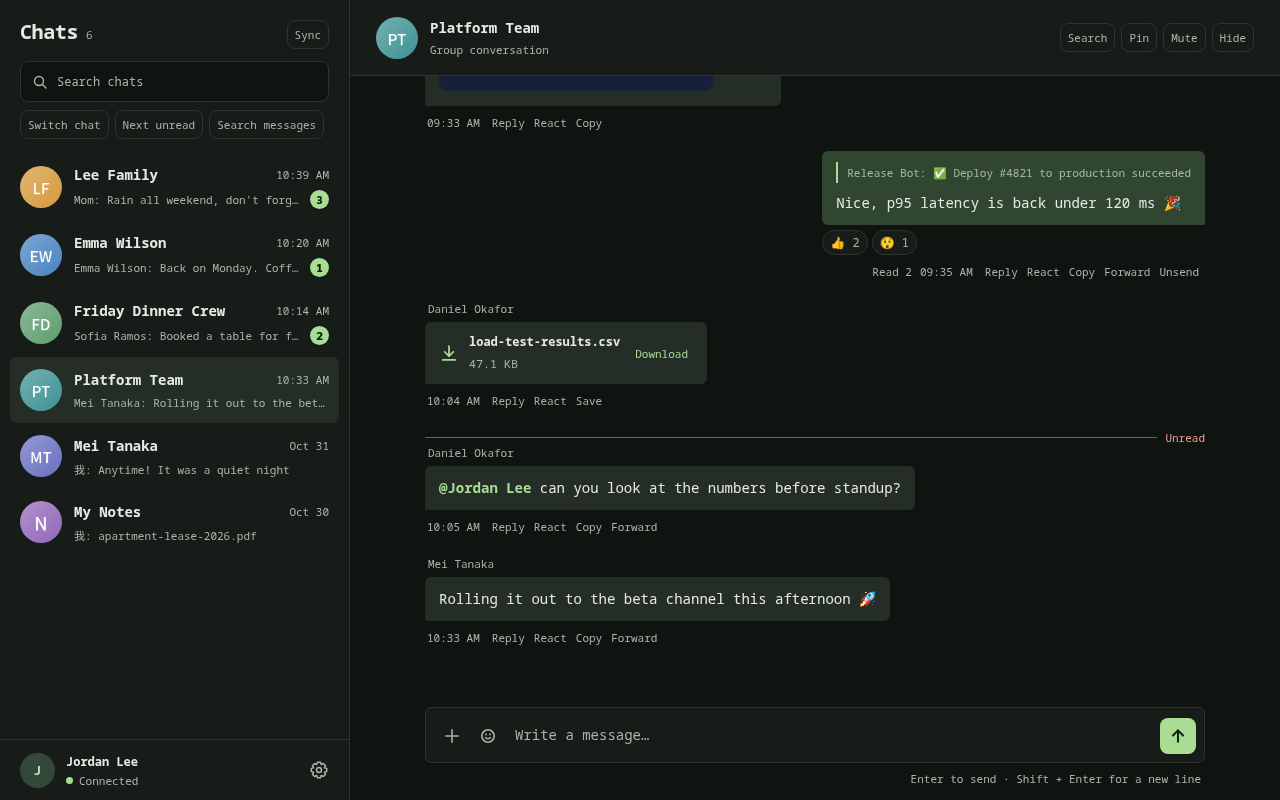
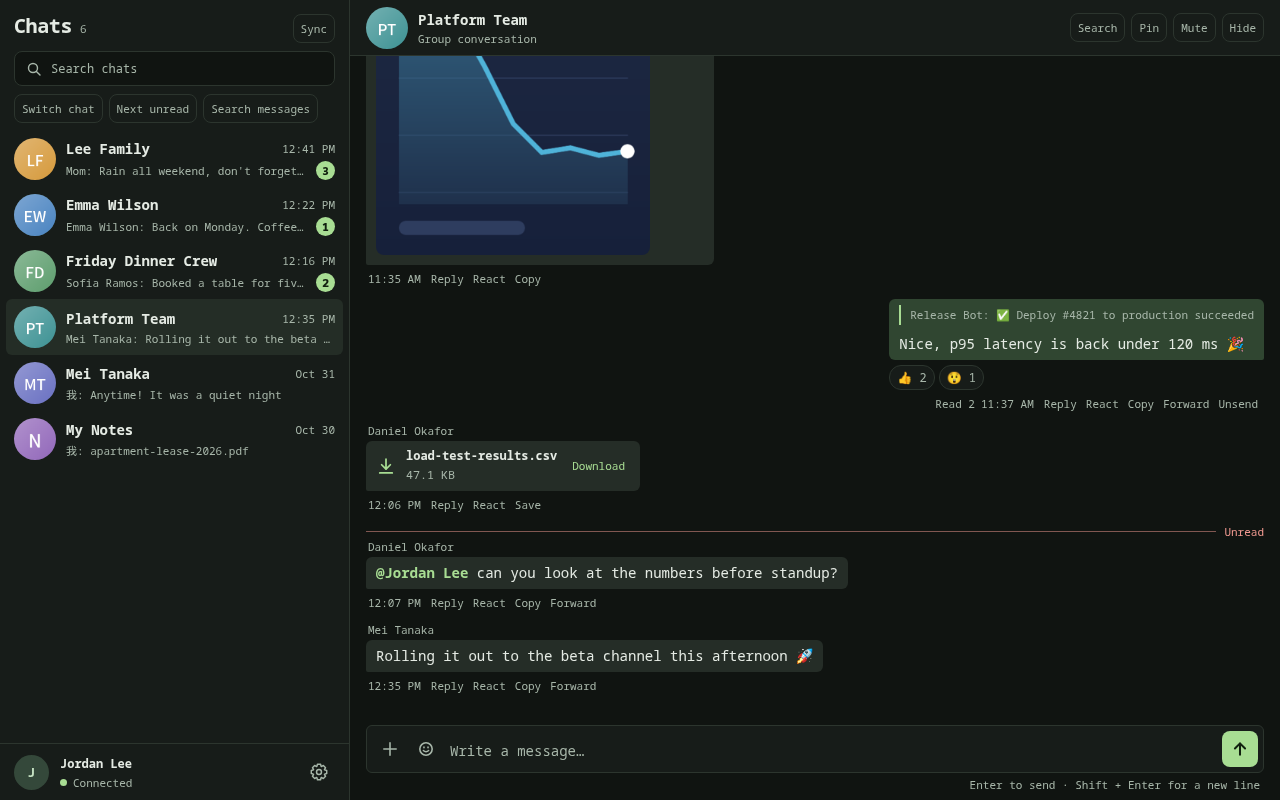
fix(web): tighten the chat layout and composer spacing (#13)
* fix(web): tighten the chat layout and composer spacing

* fix(web): align composer pickers with the conversation gutter

* fix(web): discard old history anchors when a message jump starts

* fix(web): lay out message jump targets before scrolling in WebKit

diff --git a/daemon/web/public/app.css b/daemon/web/public/app.css
@@ -318,13 +318,13 @@ a:focus-visible {
   background: var(--panel);
 }
 .sidebar-top {
-  padding: 18px 20px 14px;
+  padding: 12px 14px 8px;
 }
 .section-heading {
   display: flex;
   align-items: baseline;
   gap: 8px;
-  margin-bottom: 12px;
+  margin-bottom: 8px;
 }
 .section-heading h1 {
   font-size: calc(20rem / 14);
@@ -359,7 +359,7 @@ a:focus-visible {
   border: 0;
   outline: 0;
   color: var(--text);
-  padding: 11px 0;
+  padding: 8px 0;
   font-size: calc(12rem / 14);
 }
 input::placeholder,
@@ -377,7 +377,7 @@ textarea::placeholder {
   min-height: 0;
   overflow: auto;
   contain: layout paint;
-  padding: 0 10px;
+  padding: 0 6px;
 }
 .chat-row {
   width: 100%;
@@ -385,9 +385,9 @@ textarea::placeholder {
   content-visibility: auto;
   contain-intrinsic-size: auto 44px;
   align-items: center;
-  gap: 12px;
+  gap: 10px;
   text-align: left;
-  padding: 12px 10px;
+  padding: 7px 8px;
   border: 0;
   border-radius: 6px;
   background: transparent;
@@ -427,7 +427,7 @@ textarea::placeholder {
   justify-content: space-between;
 }
 .row-top {
-  margin-bottom: 6px;
+  margin-bottom: 3px;
 }
 .row-name {
   font-weight: 700;
@@ -467,7 +467,7 @@ textarea::placeholder {
 }
 .sidebar-bottom {
   border-top: 1px solid var(--line);
-  padding: 8px 8px 8px 20px;
+  padding: 6px 8px 6px 14px;
   display: flex;
   justify-content: space-between;
   align-items: center;
@@ -505,6 +505,7 @@ textarea::placeholder {
   font-size: calc(11rem / 14);
 }
 .conversation {
+  --conversation-gutter: max(16px, calc((100% - 960px) / 2));
   flex: 1;
   min-width: 0;
   min-height: 0;
@@ -541,11 +542,11 @@ textarea::placeholder {
   flex-direction: column;
 }
 .chat-header {
-  min-height: 76px;
+  min-height: 56px;
   display: flex;
   align-items: center;
-  gap: 12px;
-  padding: 0 26px;
+  gap: 10px;
+  padding: 6px 16px;
   background: var(--panel);
   border-bottom: 1px solid var(--line);
   flex: none;
@@ -564,7 +565,7 @@ textarea::placeholder {
 .chat-heading span {
   display: block;
   font-size: calc(11rem / 14);
-  margin-top: 5px;
+  margin-top: 2px;
 }
 .back {
   display: none;
@@ -574,40 +575,42 @@ textarea::placeholder {
   min-height: 0;
   overflow: auto;
   overscroll-behavior: contain;
-  padding: 26px max(28px,calc((100% - 780px)/2));
+  padding: 12px var(--conversation-gutter);
   scrollbar-color: var(--line) transparent;
 }
 .message-row {
   content-visibility: auto;
   contain-intrinsic-size: auto 100px;
   display: flex;
-  margin: 0 0 18px;
+  margin: 0 0 8px;
   gap: 9px;
   align-items: end;
 }
-/* Measure the incoming tail before scrolling to it. */
-.message-row:last-child {
+/* Measure incoming messages and explicit jump targets before scrolling.
+   WebKit can otherwise skip a jump to an unrendered row. */
+.message-row:last-child,
+.message-row.quote-target {
   content-visibility: visible;
 }
 .message-row.own {
   justify-content: flex-end;
 }
 .message-column {
-  max-width: min(78%,560px);
+  max-width: min(78%,640px);
   min-width: 0;
 }
 .sender {
   color: var(--muted);
   font-size: calc(11rem / 14);
-  margin: 0 0 6px 3px;
+  margin: 0 0 3px 2px;
 }
 .bubble {
   position: relative;
   background: var(--bubble);
   border-radius: 6px 6px 6px 2px;
-  padding: 11px 14px;
+  padding: 6px 10px;
   overflow-wrap: anywhere;
-  line-height: 1.55;
+  line-height: 1.45;
 }
 .own .bubble {
   background: var(--own);
@@ -648,8 +651,8 @@ textarea::placeholder {
 .message-meta {
   display: flex;
   align-items: center;
-  gap: 8px;
-  margin-top: 5px;
+  gap: 6px;
+  margin-top: 2px;
   padding: 0 2px;
   color: var(--muted);
   font-size: calc(11rem / 14);
@@ -770,7 +773,7 @@ textarea::placeholder {
   text-align: center;
   color: var(--muted);
   font-size: calc(11rem / 14);
-  margin: 20px 0;
+  margin: 12px 0;
 }
 .loading-message {
   text-align: center;
@@ -780,7 +783,7 @@ textarea::placeholder {
 }
 .drop-overlay {
   position: absolute;
-  inset: 76px 20px 125px;
+  inset: 58px 16px 96px;
   z-index: 4;
   display: grid;
   place-items: center;
@@ -792,18 +795,18 @@ textarea::placeholder {
 }
 .composer-area {
   flex: none;
-  padding: 14px max(28px,calc((100% - 780px)/2)) 14px;
+  padding: 8px var(--conversation-gutter);
   background: var(--bg);
   position: relative;
 }
 .composer {
   display: flex;
   align-items: end;
-  gap: 9px;
+  gap: 6px;
   background: var(--panel);
   border: 1px solid var(--line);
   border-radius: 6px;
-  padding: 8px;
+  padding: 5px;
 }
 .composer:focus-within {
   border-color: var(--accent);
@@ -820,7 +823,7 @@ textarea::placeholder {
   color: var(--text);
   border: 0;
   outline: 0;
-  padding: 9px 0;
+  padding: 6px 0;
   line-height: 1.4;
 }
 .search-wrap input:focus-visible {
@@ -839,7 +842,7 @@ textarea::placeholder {
   color: var(--accent-ink);
 }
 .composer-hint {
-  margin: 8px 4px 0;
+  margin: 4px 4px 0;
   text-align: right;
   color: var(--muted);
   font-size: calc(11rem / 14);
@@ -863,7 +866,7 @@ textarea::placeholder {
 .mention-picker {
   position: absolute;
   bottom: 100%;
-  left: max(28px, calc((100% - 780px) / 2));
+  left: var(--conversation-gutter);
   width: min(320px, calc(100% - 40px));
   max-height: 220px;
   overflow: auto;
@@ -903,7 +906,7 @@ textarea::placeholder {
 }
 .sticker-picker {
   position: absolute;
-  right: max(28px,calc((100% - 780px)/2));
+  right: var(--conversation-gutter);
   bottom: 100%;
   width: min(380px,calc(100% - 40px));
   height: 340px;
@@ -1121,12 +1124,13 @@ textarea::placeholder {
     border-right: 0;
   }
   .sidebar-top {
-    padding: 22px 16px 12px;
+    padding: 12px 16px 8px;
   }
   .sidebar-bottom {
     padding: 8px 8px max(8px, env(safe-area-inset-bottom)) 16px;
   }
   .conversation {
+    --conversation-gutter: 12px;
     display: none;
     width: 100%;
   }
@@ -1137,7 +1141,7 @@ textarea::placeholder {
     display: block;
   }
   .chat-header {
-    min-height: 62px;
+    min-height: 56px;
     padding: 0 12px;
     gap: 9px;
   }
@@ -1150,13 +1154,14 @@ textarea::placeholder {
     display: grid;
   }
   .messages {
-    padding: 20px 14px;
+    padding: 12px;
   }
   .message-column {
     max-width: 85%;
   }
   .composer-area {
-    padding: 10px 12px max(10px,env(safe-area-inset-bottom));
+    padding: 6px var(--conversation-gutter)
+      max(8px,env(safe-area-inset-bottom));
   }
   .composer textarea {
     font-size: max(16px, 1rem);
@@ -1165,10 +1170,7 @@ textarea::placeholder {
     display: none;
   }
   .drop-overlay {
-    inset: 65px 12px 90px;
-  }
-  .sticker-picker {
-    right: 12px;
+    inset: 58px 10px 80px;
   }
   .auth-card {
     padding: 30px;

diff --git a/tests/web/search.js b/tests/web/search.js
@@ -235,12 +235,27 @@ async function deepJump(h) {
     frame.cmd === "history" && frame.chat === CHAT && frame.before
   );
   assert.deepEqual(older.map((frame) => frame.before), ["1100", "1050"]);
-  await until(async () => {
-    const box = await target.boundingBox();
-    const list = await page.locator("#messages").boundingBox();
-    return box && list && box.y >= list.y &&
-      box.y + box.height <= list.y + list.height;
-  }, "deep hit scrolled into view");
+  let jumpGeometry;
+  try {
+    await until(async () => {
+      const box = await target.boundingBox();
+      const list = await page.locator("#messages").boundingBox();
+      jumpGeometry = { box, list };
+      return box && list && box.y >= list.y &&
+        box.y + box.height <= list.y + list.height;
+    }, "deep hit scrolled into view");
+  } catch (error) {
+    console.log("search jump geometry", JSON.stringify(jumpGeometry));
+    console.log(
+      "search scroll metrics",
+      await page.locator("#messages").evaluate((list) => ({
+        top: list.scrollTop,
+        height: list.scrollHeight,
+        client: list.clientHeight,
+      })),
+    );
+    throw error;
+  }
   h.step("jump-pages-back-to-old-hit");
   await context.close();
 }

diff --git a/tests/web/mentions.js b/tests/web/mentions.js
@@ -10,6 +10,14 @@ export async function mentions(h) {
   await page.getByRole("log").getByText("晚上回來吃飯嗎？").waitFor();
   const input = page.getByLabel("訊息", { exact: true });
   await input.fill("😀 @ST");
+  await page.getByRole("button", { name: "@STUB 媽" }).waitFor();
+  const mentionBox = await page.locator("#mention-picker").boundingBox();
+  const composerBox = await page.locator(".composer").boundingBox();
+  assert.ok(mentionBox && composerBox);
+  assert.ok(
+    Math.abs(mentionBox.x - composerBox.x) < 1,
+    "mention picker aligns with the composer",
+  );
   await page.getByRole("button", { name: "@STUB 媽" }).click();
   await input.press("Home");
   await page.keyboard.insertText("hi ");

diff --git a/tests/web/main.js b/tests/web/main.js
@@ -93,6 +93,15 @@ export async function main(h) {
     .locator(".quote").waitFor();
   h.step("reaction-reply");
   await page.getByRole("button", { name: "貼圖", exact: true }).click();
+  const pickerBox = await page.locator("#sticker-picker").boundingBox();
+  const composerBox = await page.locator(".composer").boundingBox();
+  assert.ok(pickerBox && composerBox);
+  assert.ok(
+    Math.abs(
+      pickerBox.x + pickerBox.width - composerBox.x - composerBox.width,
+    ) < 1,
+    "sticker picker aligns with the composer",
+  );
   await page.locator("#sticker-content .sticker-cell").first().click();
   const sticker = page.locator(".message-row.own .sticker-image").first();
   await sticker.waitFor();

diff --git a/daemon/web/public/js/view-messages.js b/daemon/web/public/js/view-messages.js
@@ -57,11 +57,11 @@ export function createMessagesView(ctx) {
     beginProgrammaticScroll(String(id));
     // A quote jump can pass the paging threshold without the reader scrolling.
     suspendPaging(1000);
+    target.classList.add("quote-target");
     alignQuoteTarget(target);
     if (list.scrollHeight <= list.clientHeight) {
       endProgrammaticScroll();
     }
-    target.classList.add("quote-target");
     setTimeout(() => target.classList.remove("quote-target"), 2000);
   }
   function closeOpenReactions() {
